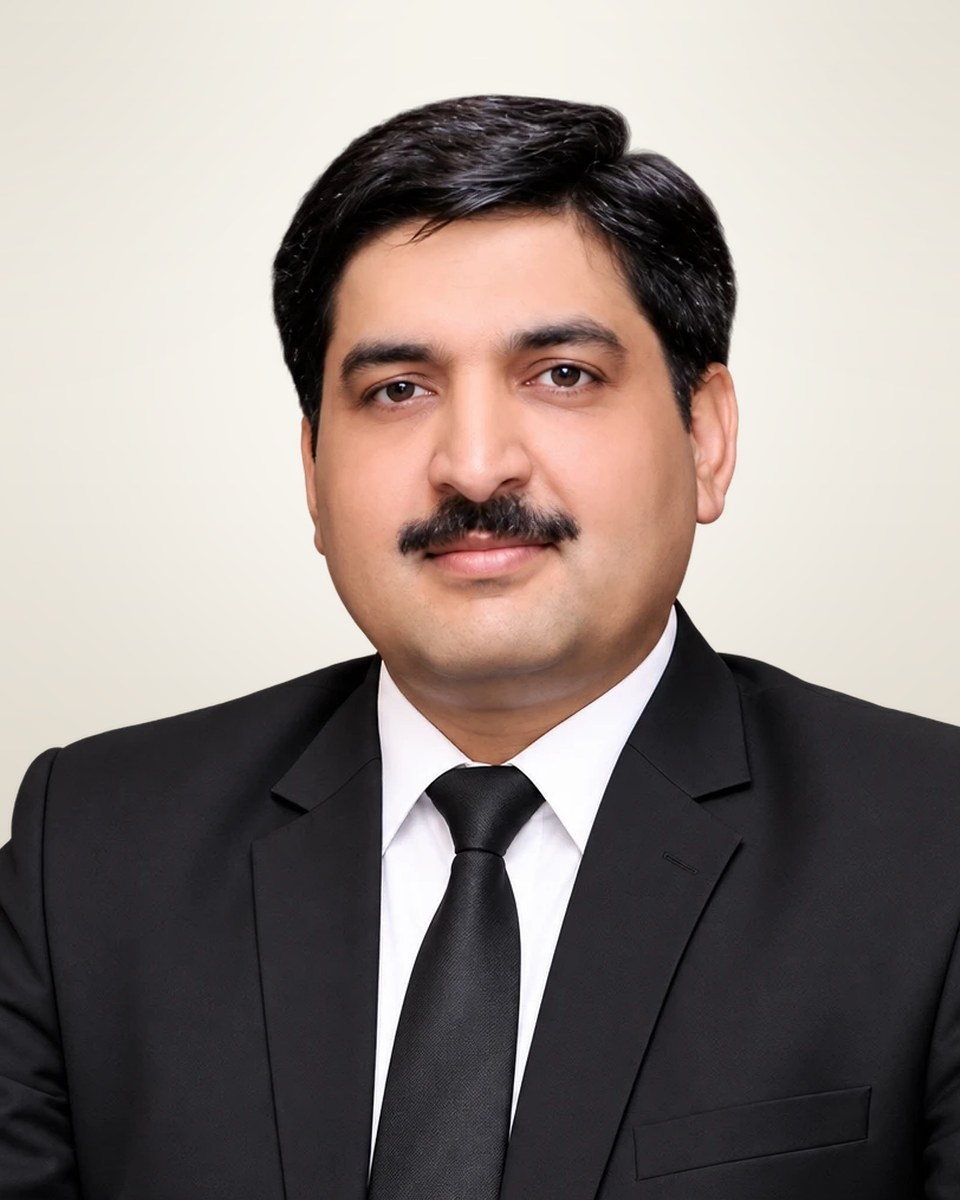
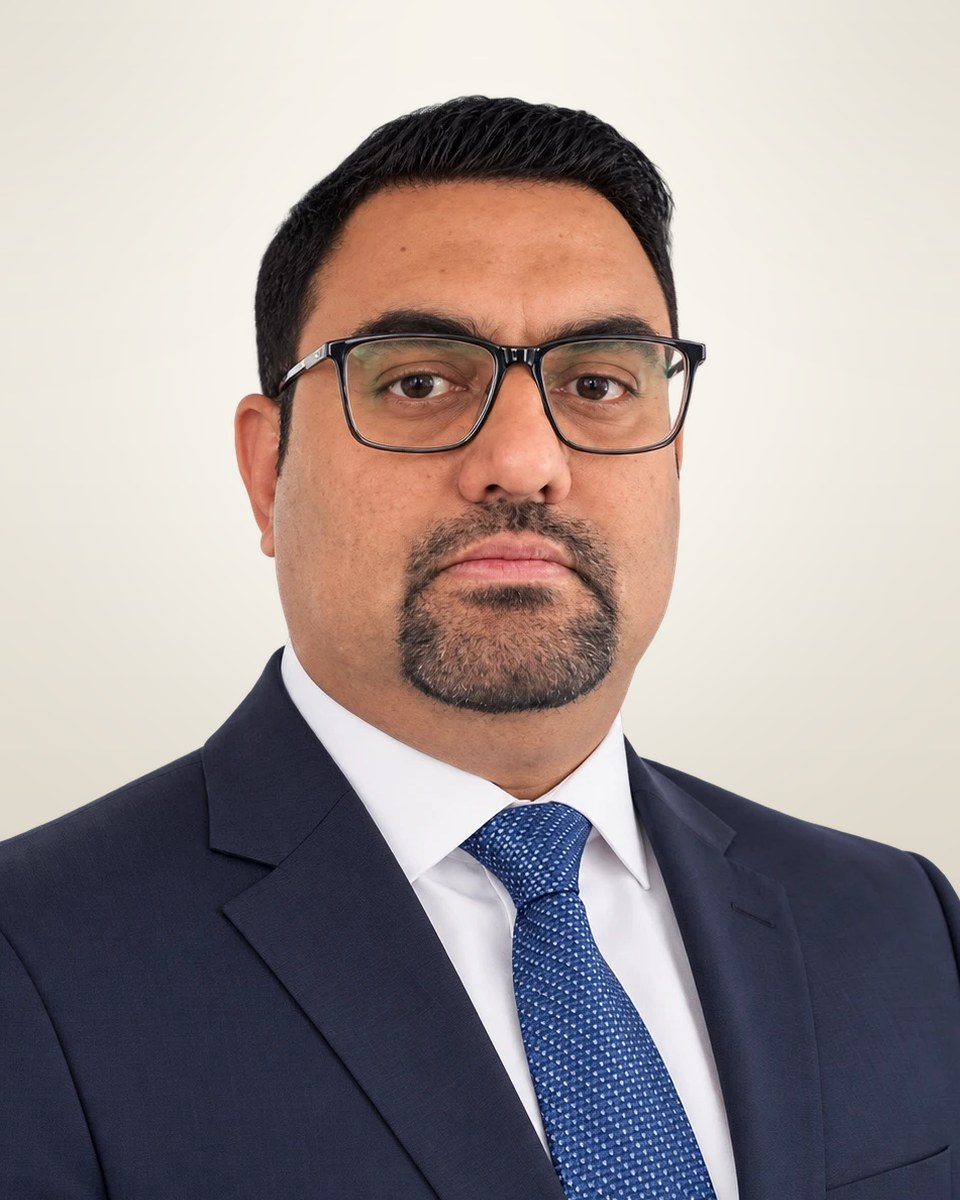
Add portraits for Ch. Abdul Nabi Qamar and Imran Ali
Claude-Session: https://claude.ai/code/session_01M9TFTMe9SzZUtDGe2tVLiv

diff --git a/royal-vision-law/elementor-team-photos.php b/royal-vision-law/elementor-team-photos.php
@@ -14,6 +14,8 @@ require_once ABSPATH . 'wp-admin/includes/image.php';
 
 $base    = 'https://raw.githubusercontent.com/royalvisioneducationchannel-jpg/blog-/claude/magical-turing-m9b0sf/royal-vision-law/team-photos/';
 $members = array(
+	array( 'Ch. Abdul Nabi Qamar', 'ch-abdul-nabi-qamar', 1 ),
+	array( 'Imran Ali', 'imran-ali', 2 ),
 	array( 'Ch. Arshad Mehmood Warraich', 'arshad-mehmood-warraich', 3 ),
 	array( 'Younis Amin', 'younis-amin', 4 ),
 	array( 'Shahid Amin', 'shahid-amin', 5 ),
@@ -27,7 +29,7 @@ foreach ( $members as $m ) {
 	$ex     = get_posts( array( 'post_type' => 'rvl_team', 'title' => $name, 'post_status' => 'any', 'numberposts' => 1, 'fields' => 'ids' ) );
 	$id     = $ex ? $ex[0] : wp_insert_post( array( 'post_type' => 'rvl_team', 'post_status' => $status, 'post_title' => $name, 'menu_order' => $order ) );
 	update_post_meta( $id, 'rvl_position', 'Advocate' );
-	$src = $base . $slug . '.jpg?v=studio-2'; // Bump the version when a portrait file changes.
+	$src = $base . $slug . '.jpg?v=studio-3'; // Bump the version when a portrait file changes.
 	$old = (int) get_post_thumbnail_id( $id );
 	$att = get_posts( array( 'post_type' => 'attachment', 'post_status' => 'inherit', 'meta_key' => '_rvl_source', 'meta_value' => $src, 'numberposts' => 1, 'fields' => 'ids' ) );
 	if ( $att ) {

diff --git a/royal-vision-law/team-photos/compose.py b/royal-vision-law/team-photos/compose.py
@@ -3,8 +3,8 @@ from PIL import Image, ImageDraw, ImageFilter, ImageEnhance
 W,H=960,1200
 src=sys.argv[1] + '/%d.webp'  # transparent studio cut-outs supplied by the firm
 # n: (slug, head_top, chin_y, face_cx)
-P={10:('arshad-mehmood-warraich',50,530,548),11:('younis-amin',60,520,540),12:('shahid-amin',44,490,565),
-   13:('rana-tahir-mehmood',16,600,490),14:('advocate-pending',47,470,560)}
+P={15:('ch-abdul-nabi-qamar',56,345,555),10:('arshad-mehmood-warraich',50,530,548),11:('younis-amin',60,520,540),12:('shahid-amin',44,490,565),
+   13:('rana-tahir-mehmood',16,600,490),14:('imran-ali',47,470,560),16:('advocate-pending',85,580,575)}
 HEAD=500; TOP=96  # target head height (hair top->chin) and hair-top y on canvas
 def backdrop():
     bg=Image.new('RGB',(W,H))
